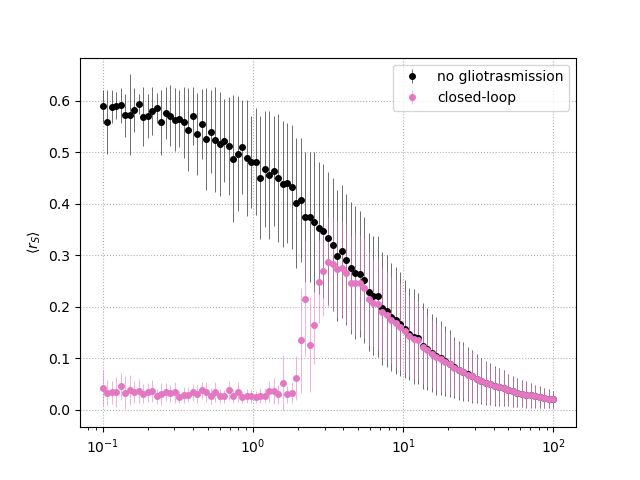
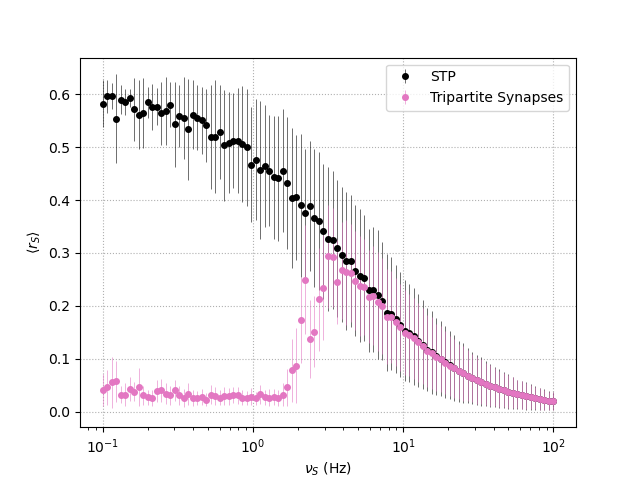
import some images

diff --git a/AstrocyteNeuron_Interactions/Astrocyte/G_ChI_network.py b/AstrocyteNeuron_Interactions/Astrocyte/G_ChI_network.py
@@ -48,6 +48,40 @@ def Biforcation_brian(variable, trans):
         
 	return I_list, Bif_list
 
+def STP_mean_field(u_0, nu_S_start=-1, nu_S_stop=2, nu_S_number=200):
+	"""
+	Mean field solution of simple synapses (no gliotramission modulation)
+	described by short-term plasticity.
+	Return steady state of synaptic variable, u_S and x_S, for constant 
+	synaptic input rate, nu_S (Hz)
+
+	Parameters
+	----------
+	nu_S_start : integer 
+				Order of magnitude of first nu_S value
+		
+	nu_S_stop : integer 
+				Order of magnitude of last nu_S value
+
+	nu_S_number : interger (optionl)
+				Total sample's number of nu_S. Default=200
+	Returns
+	-------
+	nu_S : 1D-array
+			Sample of synaptic rates (Hz)
+	u_S : 1D-array
+		Steady states of u_S
+
+	x_S : 1D-array
+		Steady state of x_S
+
+	"""
+	nu_S = np.logspace(nu_S_start, nu_S_stop, nu_S_number)*Hz
+	u_S =  (u_0*(Omega_f+nu_S))/(Omega_f+nu_S*u_0)
+	x_S = Omega_d / (Omega_d + u_S*nu_S)
+
+	return nu_S, u_S, x_S
+
 if __name__ == "__main__":
 	## PARAMETERS ###################################################################
 	# -- Neuron --
@@ -114,6 +148,8 @@ if __name__ == "__main__":
 	Omega_e = 60/second          # Gliotransmitter clearance rate
 	alpha = 0.0                  # Gliotransmission nature
 	#################################################################################
+	U_0 = 0.6
+	J_S = rho_e * O_G * G_T /Omega_e
 
 	## TIME PARAMETERS ##############################################################
 	defaultclock.dt = 0.01*second
@@ -154,13 +190,19 @@ if __name__ == "__main__":
 	# Neurotransmitter concentration in the extracellular space:
 	Y_S                         : mmolar
 	"""
-	
+	nu_S, u_S, x_S = STP_mean_field(u_0=U_0)
+	Y_S_daniele = (rho_c*Y_T*u_S*x_S*nu_S)/(Omega_c)
+	for i,hh in zip (nu_S, Y_S_daniele):
+		print(i,hh)
+
+	plt.figure()
+	plt.plot(nu_S/Hz, Y_S_daniele/umolar, color='k')
 
 	# y_s_values = [0]*uM
 	# Y_S_function = TimedArray(y_s_values, dt=duration)
 	N_a = 500
 	astrocyte = NeuronGroup(N_a, model=astro_eqs, method='rk4')
-	astrocyte.Y_S = np.linspace(0,100,N_a)*umolar
+	astrocyte.Y_S = np.linspace(8,20,N_a)*umolar
 	astrocyte.h = 0.9
 	astrocyte.I = 0.01*umolar
 	astrocyte.C = 0.01*umolar

diff --git a/AstrocyteNeuron_Interactions/Astrocyte-Neuron/tripartite_rs_mean.py b/AstrocyteNeuron_Interactions/Astrocyte-Neuron/tripartite_rs_mean.py
@@ -65,7 +65,7 @@ if __name__ == "__main__":
 	parser.add_argument('-p', action='store_true', help="show paramount plots, default=False")
 	args = parser.parse_args()
 
-	mod = {'A':[0.5, 1.2], 'F':[2.0, 0.6]}
+	mod = {'A':[0.5, 1.2], 'F':[3.2, 0.6]}
 	## PARAMETERS ###################################################################
 	# -- Synapse --
 	rho_c = 0.005                # Synaptic vesicle-to-extracellular space volume ratio
@@ -246,6 +246,7 @@ if __name__ == "__main__":
 		ax1_1.errorbar(rate_in/Hz, np.mean(syn_mon.r_S[N_syn:2*N_syn,trans:], axis=1), np.std(syn_mon.r_S[N_syn:2*N_syn,trans:], axis=1), 
                 fmt='o', markersize=4, lw=0.4, color='C2', label='open-loop')
 		ax1_1.set_ylabel(r'$\langle r_S \rangle$')
+		ax1_1.set_xlabel(r'$\nu_S$ (Hz)')
 		ax1_1.set_xscale('log')
 		ax1_1.legend()
 		ax1_1.grid(linestyle='dotted')
@@ -350,11 +351,12 @@ if __name__ == "__main__":
 		fig7, ax7 = plt.subplots(nrows=1, ncols=1, num='Average release probability vs incoming presyn AP -bif')
 
 		ax7.errorbar(rate_in/Hz, np.mean(syn_mon.r_S[2*N_syn:,trans:], axis=1), np.std(syn_mon.r_S[2*N_syn:,trans:], axis=1), 
-                fmt='o', markersize=4, lw=0.4, color='black', label='no gliotrasmission')
+                fmt='o', markersize=4, lw=0.4, color='black', label='STP')
 		ax7.errorbar(rate_in/Hz, np.mean(syn_mon.r_S[:N_syn,trans:], axis=1), np.std(syn_mon.r_S[:N_syn,trans:], axis=1), 
-                fmt='o', markersize=4, lw=0.4, color='C6', label='closed-loop')
+                fmt='o', markersize=4, lw=0.4, color='C6', label='Tripartite Synapses')
 		
 		ax7.set_ylabel(r'$\langle r_S \rangle$')
+		ax7.set_xlabel(r'$\nu_S$ (Hz)')
 		ax7.set_xscale('log')
 		ax7.legend()
 		ax7.grid(linestyle='dotted')

diff --git a/AstrocyteNeuron_Interactions/Astrocyte-Neuron/tripartite_biforcation.py b/AstrocyteNeuron_Interactions/Astrocyte-Neuron/tripartite_biforcation.py
@@ -222,7 +222,7 @@ if __name__ == "__main__":
 	## Plots #########################################################################################
 	# Astro variable
 	trans = 50000   #trans*dt=50000*0.5*ms=25 s
-	trans = 47000   #trans*dt_sam = 40000*10*ms= 400 s
+	trans = 35000   #trans*dt_sam = 40000*10*ms= 400 s
 
 	if args.p:
 		index = 1
